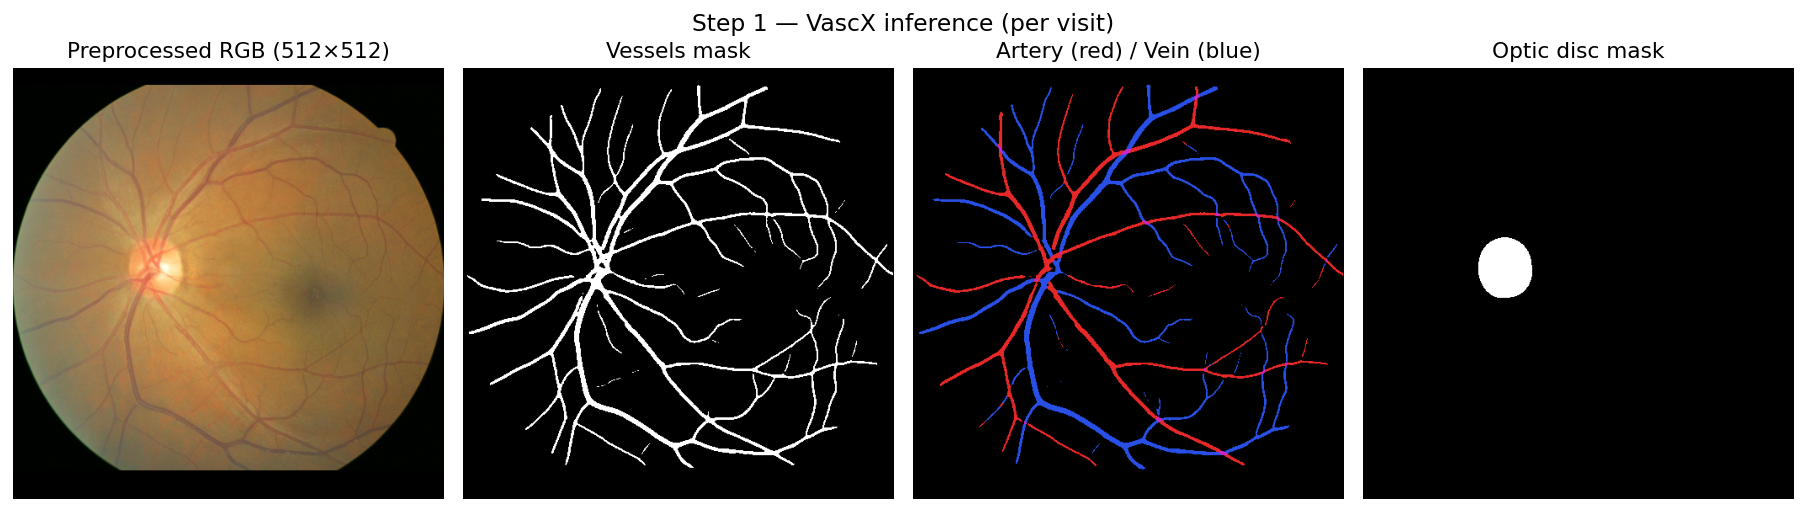
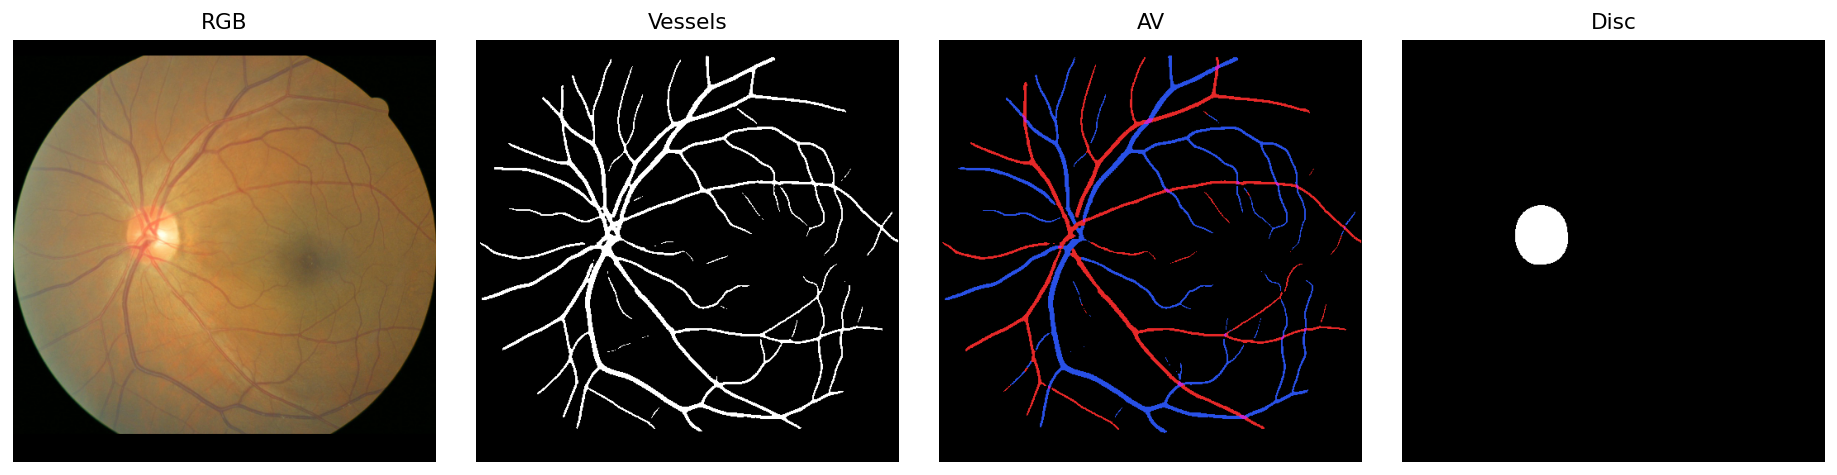
Fundus feature update

diff --git a/scripts/make_figures.py b/scripts/make_figures.py
@@ -35,6 +35,7 @@ DOCS        = _PKG_ROOT / "docs"
 PATIENT     = "SAMPLE"
 EYE         = "R"
 SQUARE_SIZE = 512
+FIG_H       = 3.6   # uniform panel height across all figures (inches)
 
 
 def _resolve_rgb_dir() -> Path:
@@ -86,14 +87,13 @@ def fig01_vascx_masks(rgb_dir: Path, inf_dir: Path):
     ves = np.array(Image.open(inf_dir / "vessels" / f"{vid}.png"))
     dsc = np.array(Image.open(inf_dir / "discs"   / f"{vid}.png"))
 
-    fig, axes = plt.subplots(1, 4, figsize=(14, 4))
-    axes[0].imshow(rgb);                      axes[0].set_title("Preprocessed RGB (512×512)")
-    axes[1].imshow(ves, cmap="gray");         axes[1].set_title("Vessels mask")
-    axes[2].imshow(_av_rgb(av));              axes[2].set_title("Artery (red) / Vein (blue)")
-    axes[3].imshow(dsc, cmap="gray");         axes[3].set_title("Optic disc mask")
+    fig, axes = plt.subplots(1, 4, figsize=(FIG_H * 4, FIG_H))
+    axes[0].imshow(rgb);              axes[0].set_title("RGB")
+    axes[1].imshow(ves, cmap="gray"); axes[1].set_title("Vessels")
+    axes[2].imshow(_av_rgb(av));      axes[2].set_title("AV")
+    axes[3].imshow(dsc, cmap="gray"); axes[3].set_title("Disc")
     for ax in axes:
         ax.axis("off")
-    fig.suptitle("Step 1 — VascX inference (per visit)", fontsize=13)
     fig.tight_layout()
     fig.savefig(DOCS / "01_vascx_masks.png", dpi=130, bbox_inches="tight")
     plt.close(fig)
@@ -113,19 +113,16 @@ def fig02_laterality(payload, rgb_dir: Path):
     first_vid = payload["features"][0]["id"]
     rgb = np.array(Image.open(rgb_dir / f"{first_vid}.png"))
 
-    fig, ax = plt.subplots(figsize=(6, 6))
+    fig, ax = plt.subplots(figsize=(FIG_H, FIG_H))
     ax.imshow(rgb)
     ax.plot([fx, dcx], [fy, dcy], color="yellow", linewidth=1.5, alpha=0.8)
-    ax.scatter(fx, fy, s=140, marker="x", color="lime", linewidths=2.5, label="fovea")
-    ax.scatter(dcx, dcy, s=140, marker="o", facecolors="none",
-               edgecolors="cyan", linewidths=2.5, label="disc")
-    ax.text((fx + dcx) / 2, (fy + dcy) / 2 - 10,
-            f"disc.x − fovea.x = {sep:+.1f}px → {eye_label}",
-            color="white", fontsize=10, ha="center",
-            bbox=dict(facecolor="black", alpha=0.6, edgecolor="none", pad=3))
+    ax.scatter(fx, fy, s=120, marker="x", color="lime", linewidths=2.2, label="fovea")
+    ax.scatter(dcx, dcy, s=120, marker="o", facecolors="none",
+               edgecolors="cyan", linewidths=2.2, label="disc")
+    ax.set_title(f"disc.x − fovea.x = {sep:+.0f}px → {eye_label}", fontsize=10)
     ax.axis("off")
-    ax.legend(loc="lower right", facecolor="black", labelcolor="white", framealpha=0.6)
-    fig.suptitle("Step 2 — Laterality from fovea / disc geometry", fontsize=13)
+    ax.legend(loc="lower right", facecolor="black", labelcolor="white",
+              framealpha=0.6, fontsize=8)
     fig.tight_layout()
     fig.savefig(DOCS / "02_laterality.png", dpi=130, bbox_inches="tight")
     plt.close(fig)
@@ -172,15 +169,13 @@ def fig03_registration(payload, rgb_dir: Path, aligned_dir: Path):
     dice = (2 * (fixed_vess & moving_vess_aligned).sum() /
             max(int(fixed_vess.sum()) + int(moving_vess_aligned.sum()), 1))
 
-    fig, axes = plt.subplots(1, 2, figsize=(11, 5.5))
+    fig, axes = plt.subplots(1, 2, figsize=(FIG_H * 2, FIG_H))
     axes[0].imshow(before)
-    axes[0].set_title("Before alignment\n(red = fixed RGB, cyan = moving RGB)")
+    axes[0].set_title("Before")
     axes[1].imshow(after)
-    axes[1].set_title(f"After alignment — vessel masks\n(red = fixed, green = aligned moving, yellow = overlap)"
-                      f"\nDice = {dice:.3f}")
+    axes[1].set_title(f"After  ·  Dice = {dice:.3f}")
     for ax in axes:
         ax.axis("off")
-    fig.suptitle("Step 3 — EyeLiner registration (first visit = fixed)", fontsize=13)
     fig.tight_layout()
     fig.savefig(DOCS / "03_registration.png", dpi=130, bbox_inches="tight")
     plt.close(fig)
@@ -193,16 +188,15 @@ def fig03_registration(payload, rgb_dir: Path, aligned_dir: Path):
 def fig04_aligned_timeline(payload, aligned_dir: Path):
     feats = payload["features"]
     n = len(feats)
-    fig, axes = plt.subplots(1, n, figsize=(3.6 * n, 4))
+    fig, axes = plt.subplots(1, n, figsize=(FIG_H * n, FIG_H))
     if n == 1:
         axes = [axes]
-    for ax, v in zip(axes, feats):
+    for i, (ax, v) in enumerate(zip(axes, feats)):
         av = np.array(Image.open(aligned_dir / "av" / f"{v['id']}.png"))
         ax.imshow(_av_rgb(av))
-        tag = "FIXED" if v == feats[0] else "aligned"
-        ax.set_title(f"{v['date'][:10]} · {tag}")
+        tag = "fixed" if i == 0 else f"visit {i + 1}"
+        ax.set_title(tag)
         ax.axis("off")
-    fig.suptitle("Step 4 — Aligned AV masks across visits (common frame)", fontsize=13)
     fig.tight_layout()
     fig.savefig(DOCS / "04_aligned_timeline.png", dpi=130, bbox_inches="tight")
     plt.close(fig)
@@ -241,21 +235,16 @@ def fig05_zones(payload, rgb_dir: Path):
         disp[mask] = disp[mask] * 0.6 + c * 0.4
     disp = disp.clip(0, 255).astype(np.uint8)
 
-    fig, ax = plt.subplots(figsize=(7, 7))
+    fig, ax = plt.subplots(figsize=(FIG_H, FIG_H))
     ax.imshow(disp)
-    ax.scatter(fx, fy, s=120, marker="x", color="white", linewidths=2, label="fovea")
-    ax.scatter(dcx, dcy, s=120, marker="o", facecolors="none",
-               edgecolors="white", linewidths=2, label="disc")
+    ax.scatter(fx, fy, s=100, marker="x", color="white", linewidths=1.8)
+    ax.scatter(dcx, dcy, s=100, marker="o", facecolors="none",
+               edgecolors="white", linewidths=1.8)
     ax.axis("off")
-    ax.legend(loc="lower right", facecolor="black", labelcolor="white", framealpha=0.6)
 
     handles = [Patch(color=np.array(c) / 255, label=n) for n, c in ZONE_COLORS.items()]
-    ax.legend(handles=[*handles,
-                       plt.Line2D([0], [0], marker="x", color="white", linestyle="", label="fovea"),
-                       plt.Line2D([0], [0], marker="o", color="white", linestyle="",
-                                  markerfacecolor="none", label="disc")],
-              loc="center left", bbox_to_anchor=(1.0, 0.5), fontsize=8, framealpha=0.9)
-    fig.suptitle("Step 5 — ETDRS 9 subfields + Wong disc zones (B / C)", fontsize=13)
+    ax.legend(handles=handles, loc="center left", bbox_to_anchor=(1.0, 0.5),
+              fontsize=7, framealpha=0.9)
     fig.tight_layout()
     fig.savefig(DOCS / "05_zones.png", dpi=130, bbox_inches="tight")
     plt.close(fig)
@@ -271,7 +260,7 @@ def fig06_features(payload, aligned_dir: Path):
     fx, fy = meta["fovea_x"], meta["fovea_y"]
     radii = list(range(10, 240, 5))
 
-    fig, (ax_mask, ax_curve) = plt.subplots(1, 2, figsize=(12, 5))
+    fig, (ax_mask, ax_curve) = plt.subplots(1, 2, figsize=(FIG_H * 2, FIG_H))
 
     fixed_vid = feats[0]["id"]
     ves = np.array(Image.open(aligned_dir / "vessels" / f"{fixed_vid}.png")) > 0
@@ -280,23 +269,22 @@ def fig06_features(payload, aligned_dir: Path):
     for r in [40, 80, 120, 160, 200]:
         ax_mask.plot(fx + r * np.cos(theta), fy + r * np.sin(theta),
                      color="cyan", linewidth=0.9, alpha=0.7)
-    ax_mask.scatter(fx, fy, s=120, marker="x", color="yellow", linewidths=2)
-    ax_mask.set_title("Fovea-centred concentric rings\non the aligned vessel skeleton")
+    ax_mask.scatter(fx, fy, s=100, marker="x", color="yellow", linewidths=1.8)
+    ax_mask.set_title("Sholl rings (fovea-centred)")
     ax_mask.axis("off")
 
-    for v in feats:
+    for i, v in enumerate(feats):
         ves = np.array(Image.open(aligned_dir / "vessels" / f"{v['id']}.png"))
         skel = clean_and_skeletonize(ves > 0)
         curve = sholl_curve(skel, fx, fy, radii)
         ax_curve.plot(radii, curve, "-o", markersize=3, linewidth=1,
-                      label=v["date"][:10])
+                      label=f"visit {i + 1}")
     ax_curve.set_xlabel("radius (px)")
     ax_curve.set_ylabel("# skeleton crossings")
-    ax_curve.set_title("Sholl curves across visits\n(one of ~241 extracted features)")
+    ax_curve.set_title("Sholl curve per visit")
     ax_curve.grid(alpha=0.3)
-    ax_curve.legend(fontsize=9)
+    ax_curve.legend(fontsize=8)
 
-    fig.suptitle("Step 6 — Feature extraction example (Sholl, fovea-centred)", fontsize=13)
     fig.tight_layout()
     fig.savefig(DOCS / "06_features.png", dpi=130, bbox_inches="tight")
     plt.close(fig)
